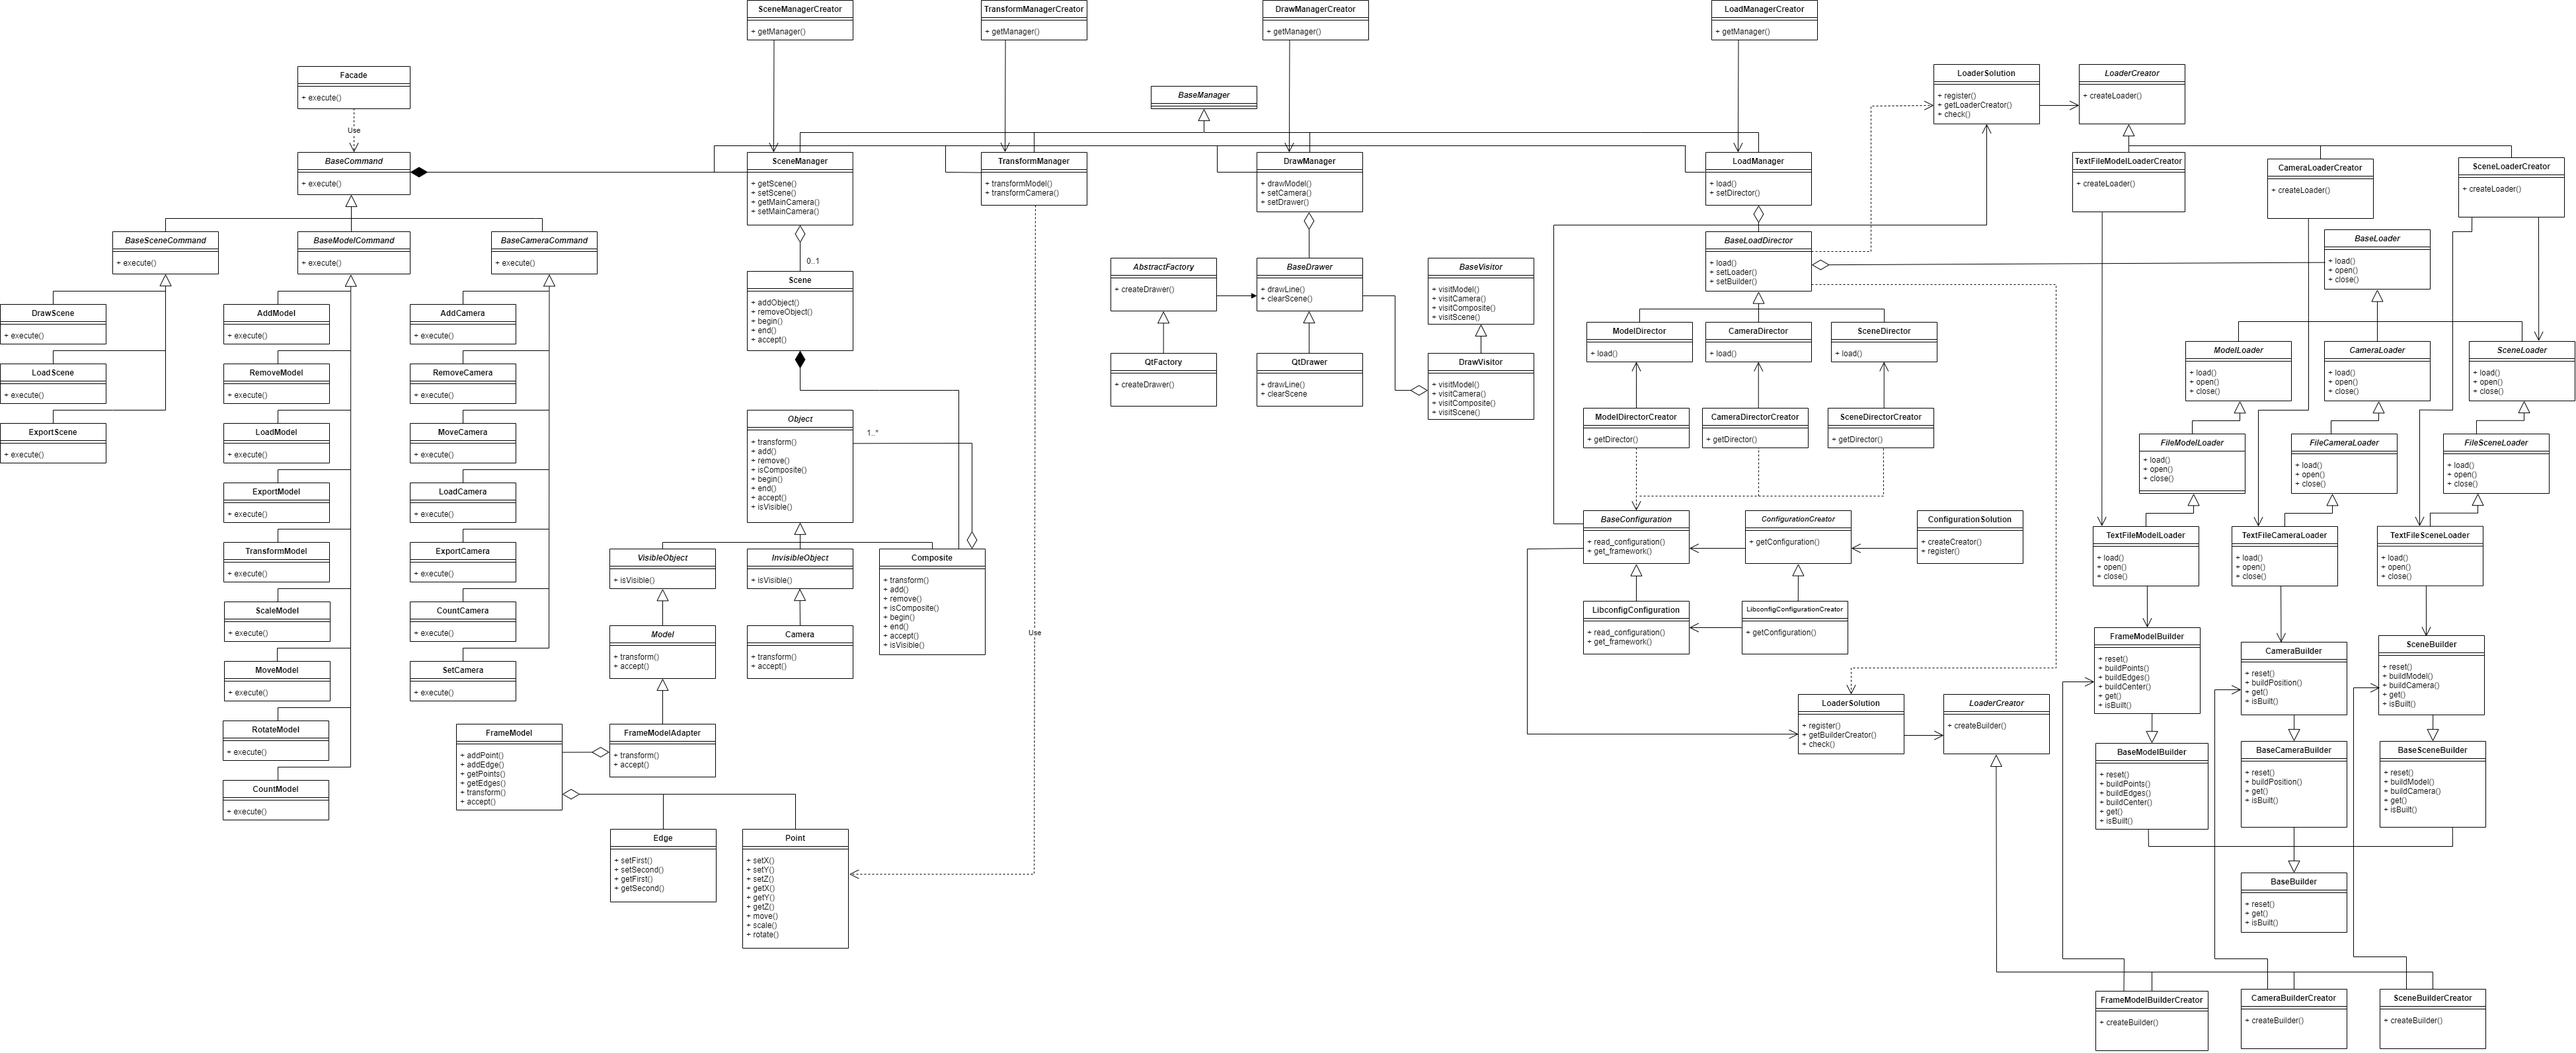
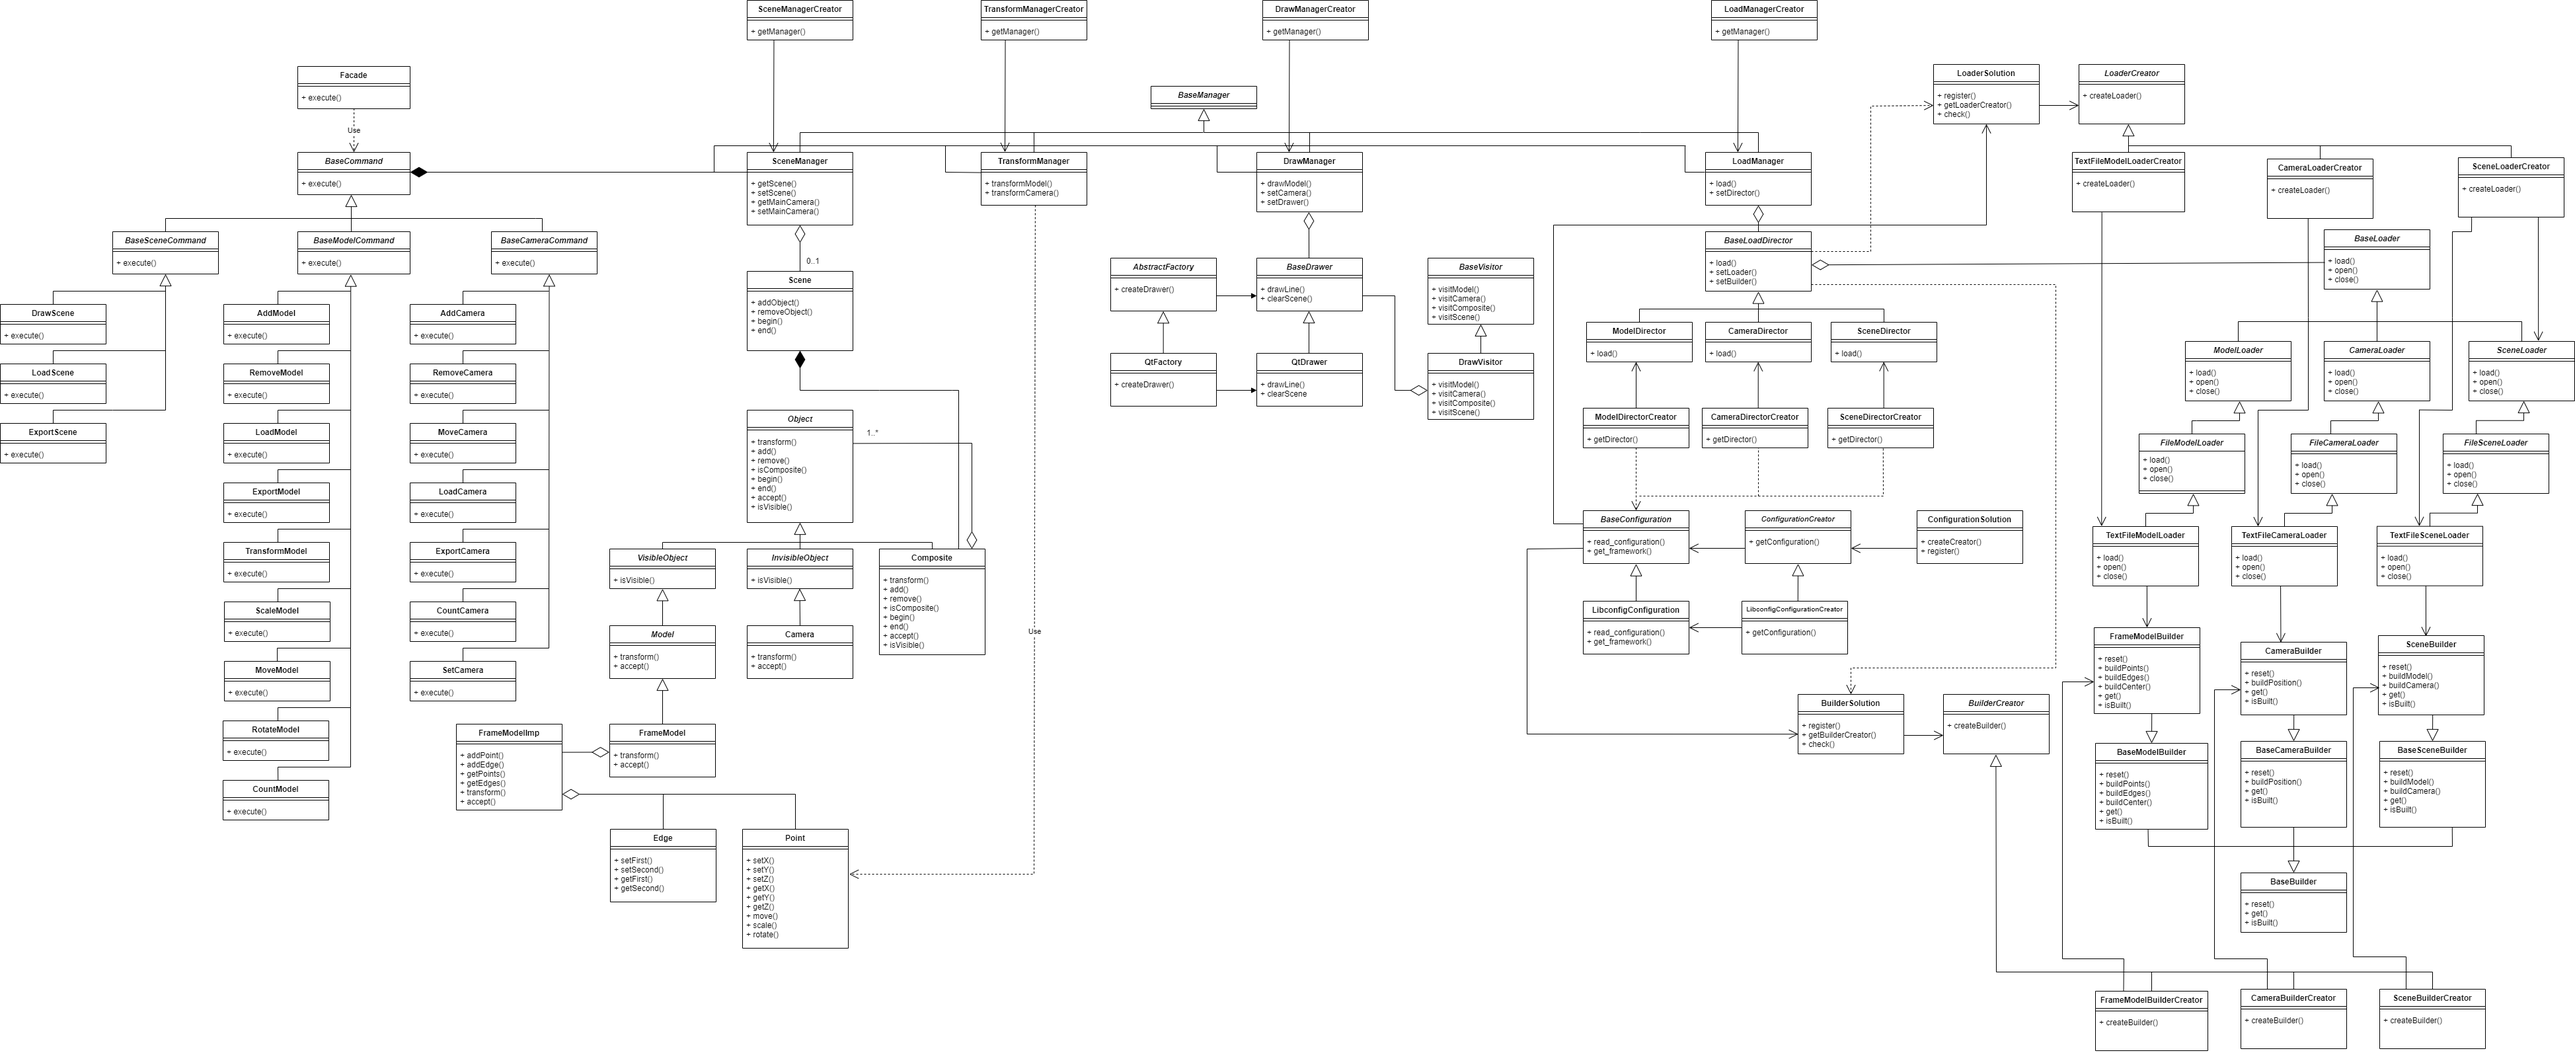
FIX: Removed old scheme ADD: Some files added

diff --git a/lab_03/src/commands/BaseCommand.hpp b/lab_03/src/commands/BaseCommand.hpp
@@ -1,0 +1,17 @@
+//
+// Created by Pavel Ivanov on 12.05.2022.
+//
+
+#ifndef LAB_03_BASECOMMAND_HPP
+#define LAB_03_BASECOMMAND_HPP
+
+class BaseCommand
+{
+public:
+    BaseCommand() = default;
+    virtual ~BaseCommand() = default;
+
+    virtual void execute() = 0;
+};
+
+#endif//LAB_03_BASECOMMAND_HPP

diff --git a/lab_03/src/facade/Facade.hpp b/lab_03/src/facade/Facade.hpp
@@ -1,0 +1,17 @@
+//
+// Created by Pavel Ivanov on 12.05.2022.
+//
+
+#ifndef LAB_03_FACADE_HPP
+#define LAB_03_FACADE_HPP
+
+#include <memory>
+
+class Facade
+{
+public:
+    void execute(const std::shared_ptr<Command> command);
+};
+
+
+#endif//LAB_03_FACADE_HPP

diff --git a/lab_03/src/facade/Facade.cpp b/lab_03/src/facade/Facade.cpp
@@ -1,0 +1,10 @@
+//
+// Created by Pavel Ivanov on 12.05.2022.
+//
+
+#include "Facade.hpp"
+
+void Facade::execute(const std::shared_ptr<Command> command)
+{
+    command->exexute();
+}
